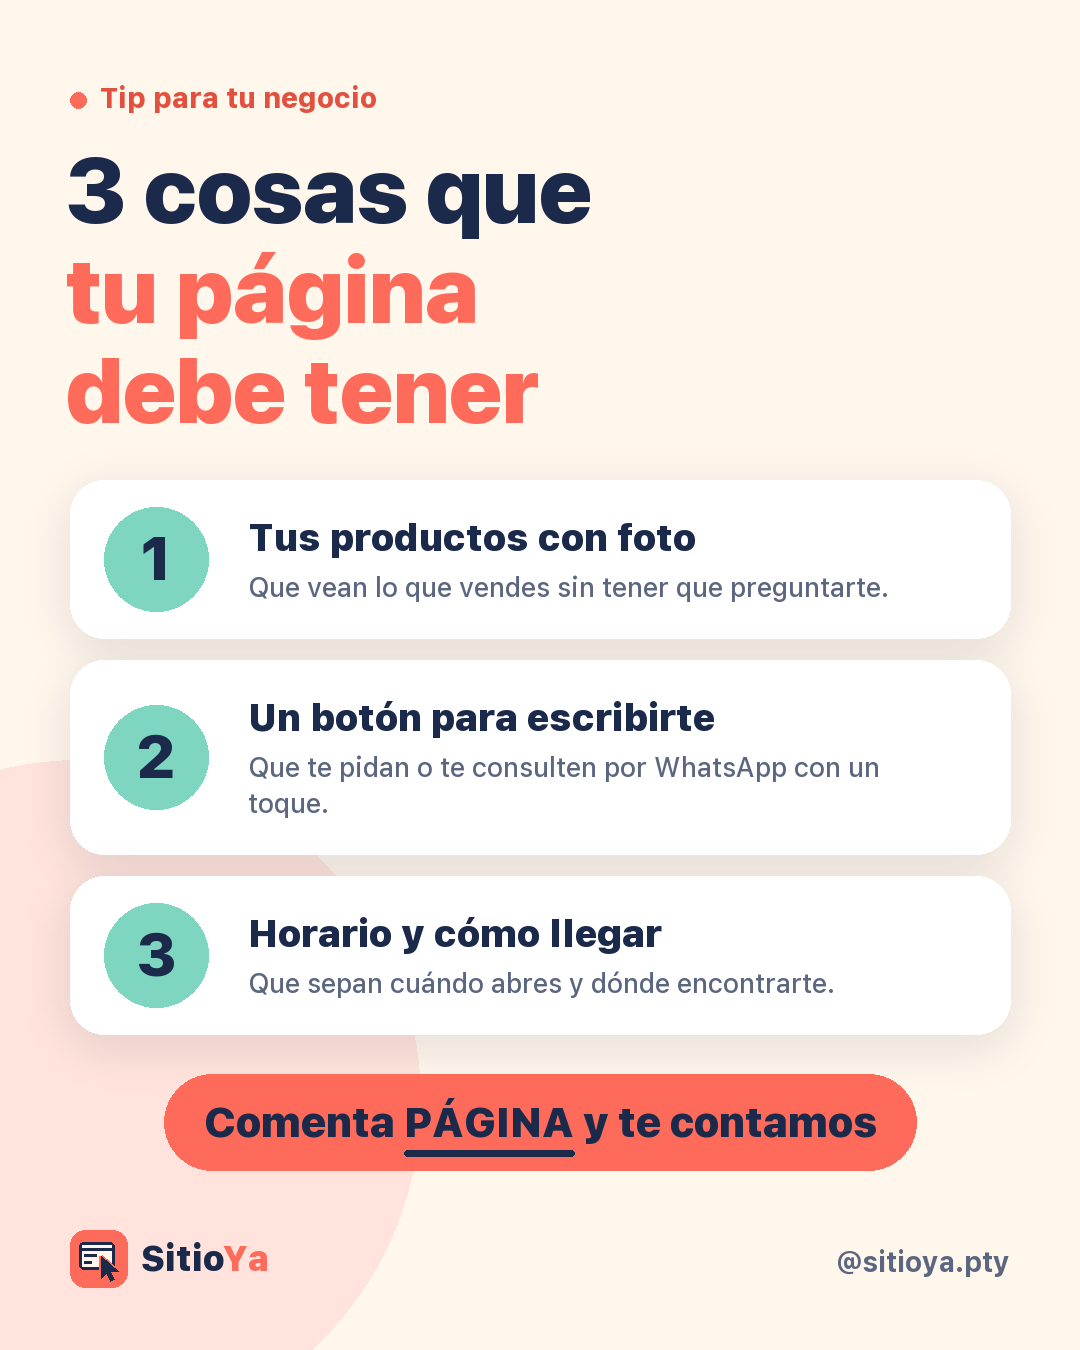
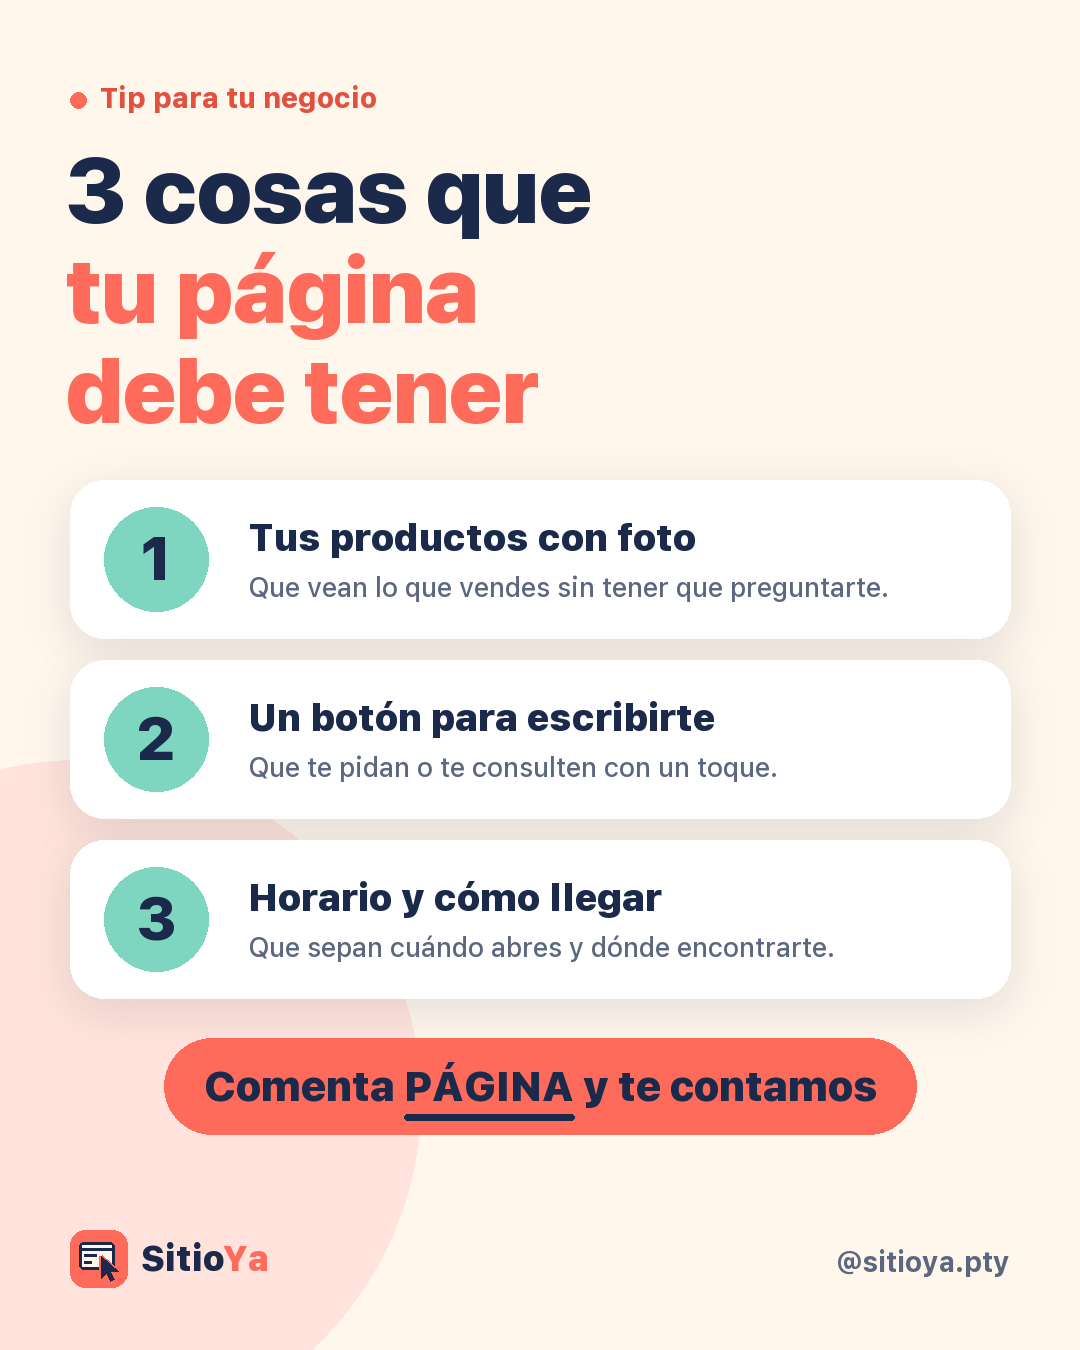
[Claude] Codex: la muesca del celular ya no tapa el nombre de las páginas en las capturas (posts 1, 3 y 6); post 5 sin nombrar WhatsApp

Changed region(s): [[0.0611, 0.4978, 0.9472, 0.8711]]

diff --git a/tools/redes_posts.py b/tools/redes_posts.py
@@ -23,7 +23,12 @@ MENTA_CLARO = '#DDF4EC'
 def captura(nombre):
     """Captura de celular de una página de ejemplo, sin el botón flotante de abajo."""
     im = Image.open(os.path.join(SHOTS, nombre + '_mob.jpg')).convert('RGBA')
-    return im.crop((0, 0, im.width, 760))
+    im = im.crop((0, 0, im.width, 712))
+    # franja arriba (del color de la página) para que la muesca del celular no tape el nombre
+    franja = 48
+    con_franja = Image.new('RGBA', (im.width, im.height + franja), im.getpixel((2, 2)))
+    con_franja.paste(im, (0, franja))
+    return con_franja
 
 
 def celular_chico(lienzo, xy, pantalla, ancho, girar=0):
@@ -261,7 +266,7 @@ def post_siguenos():
 
 TRES_COSAS = [
     ('Tus productos con foto', 'Que vean lo que vendes sin tener que preguntarte.'),
-    ('Un botón para escribirte', 'Que te pidan o te consulten por WhatsApp con un toque.'),
+    ('Un botón para escribirte', 'Que te pidan o te consulten con un toque.'),
     ('Horario y cómo llegar', 'Que sepan cuándo abres y dónde encontrarte.'),
 ]
 
